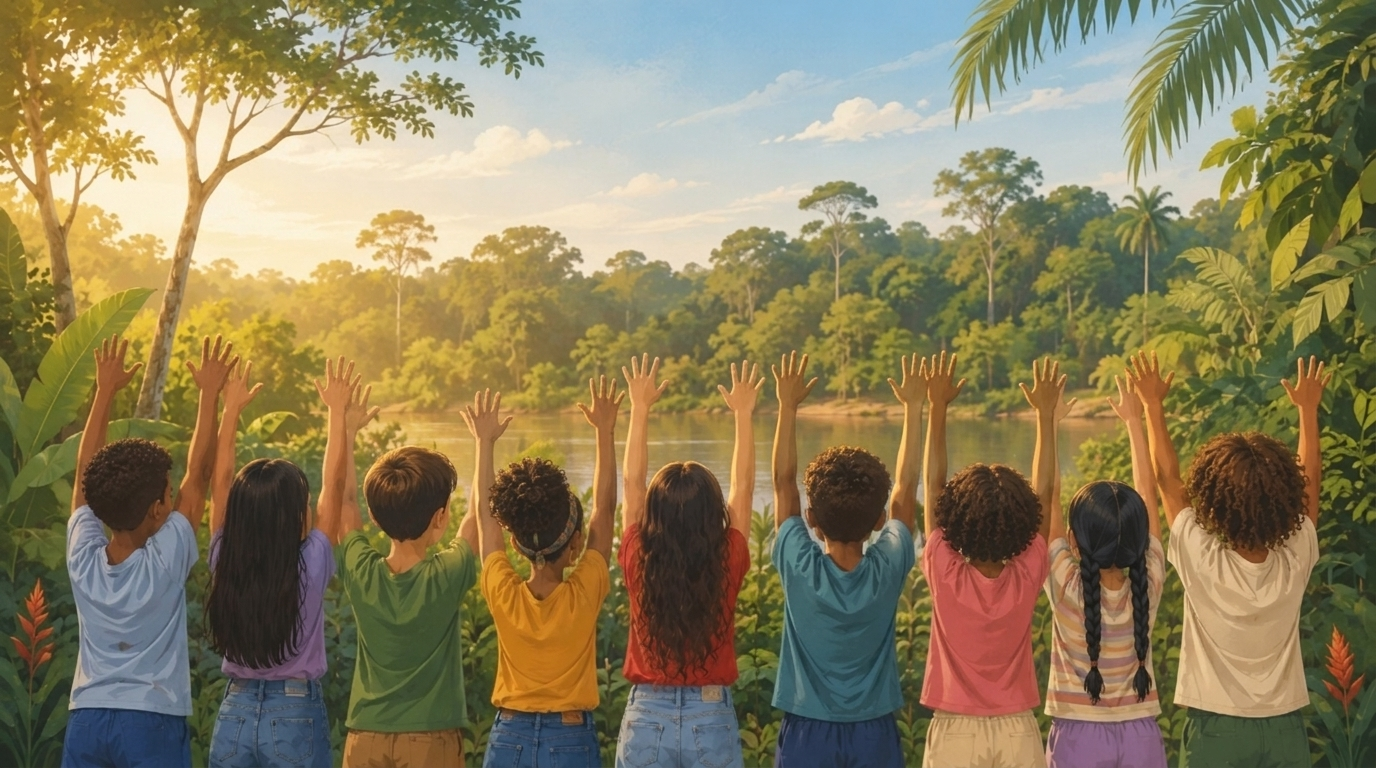
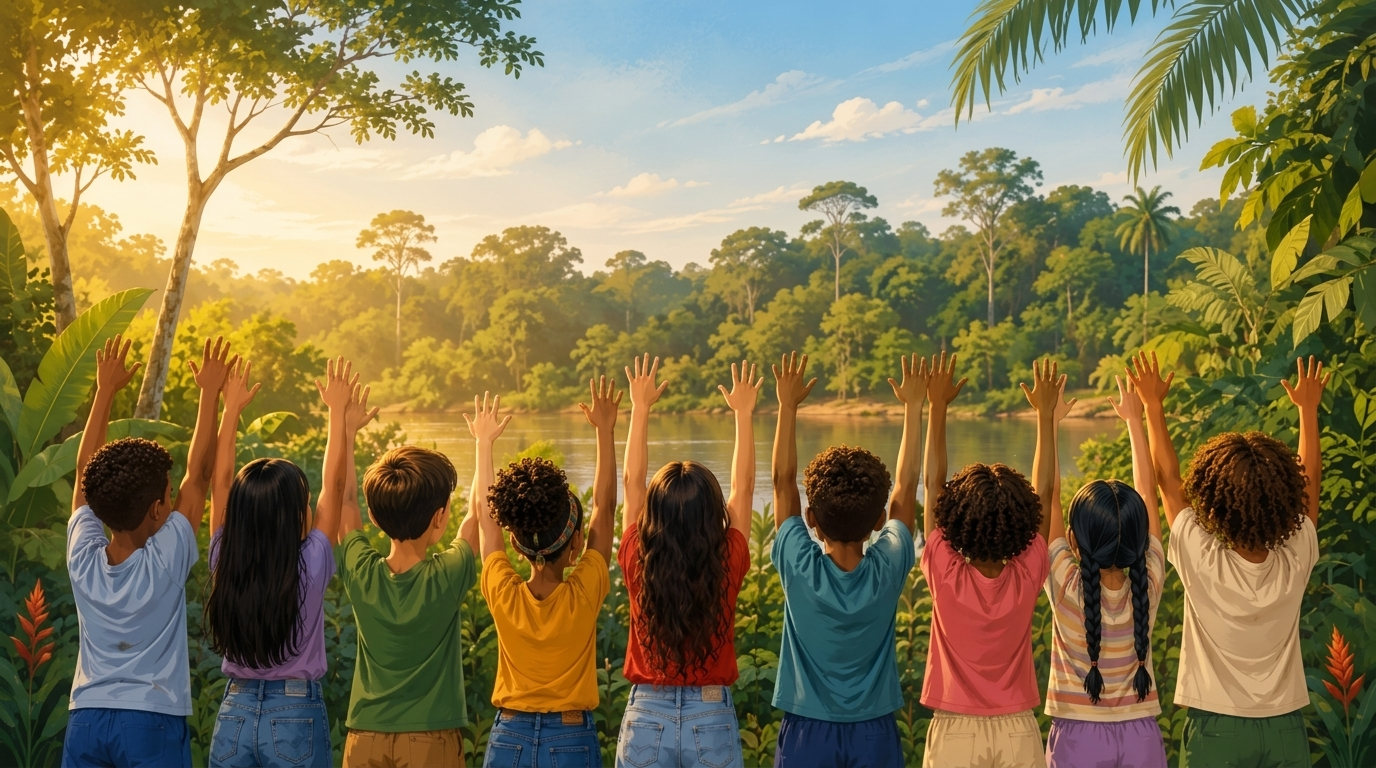
Aprimora qualidade da ilustracao do hero e ajusta enquadramento vertical

diff --git a/components/landing/hero.tsx b/components/landing/hero.tsx
@@ -19,7 +19,7 @@ export function Hero() {
         fill
         priority
         unoptimized
-        className="object-cover object-[50%_50%] [filter:contrast(1.1)_saturate(1.15)_brightness(1.05)]"
+        className="object-cover object-[50%_30%] [filter:contrast(1.1)_saturate(1.15)_brightness(1.05)]"
         aria-hidden
       />
       <div
